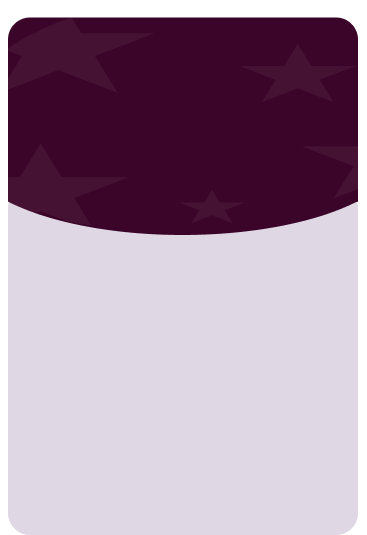
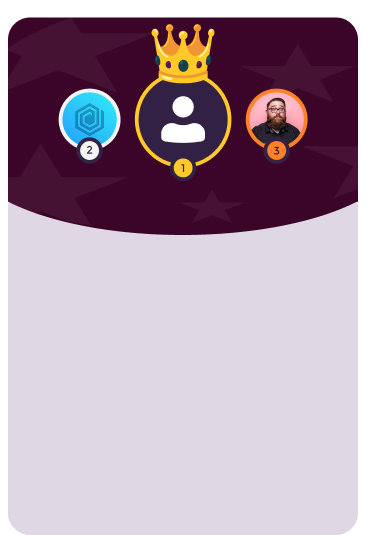
Leaderboard layout

Changed region(s): [[0.3597, 0.0299, 0.6294, 0.3589], [0.1499, 0.1495, 0.3297, 0.329], [0.6594, 0.1495, 0.8392, 0.329]]

diff --git a/lib/leaderboardPage.dart b/lib/leaderboardPage.dart
@@ -67,6 +67,22 @@ class _leaderboardPageState extends State<leaderboardPage> {
                 ],
               ),
             ),
+            SizedBox(
+              height: screenHeight * 0.1,
+              child: Image.asset('assets/leaderboard_text.png'),
+            ),
+            Stack(
+              children: [
+                SizedBox(
+                  height: screenHeight * 0.65,
+                  width: double.infinity,
+                  child: Image.asset(
+                    'assets/leaderboard_bg.png',
+                    fit: BoxFit.fill,
+                  ),
+                ),
+              ],
+            )
           ],
         ),
       ),
